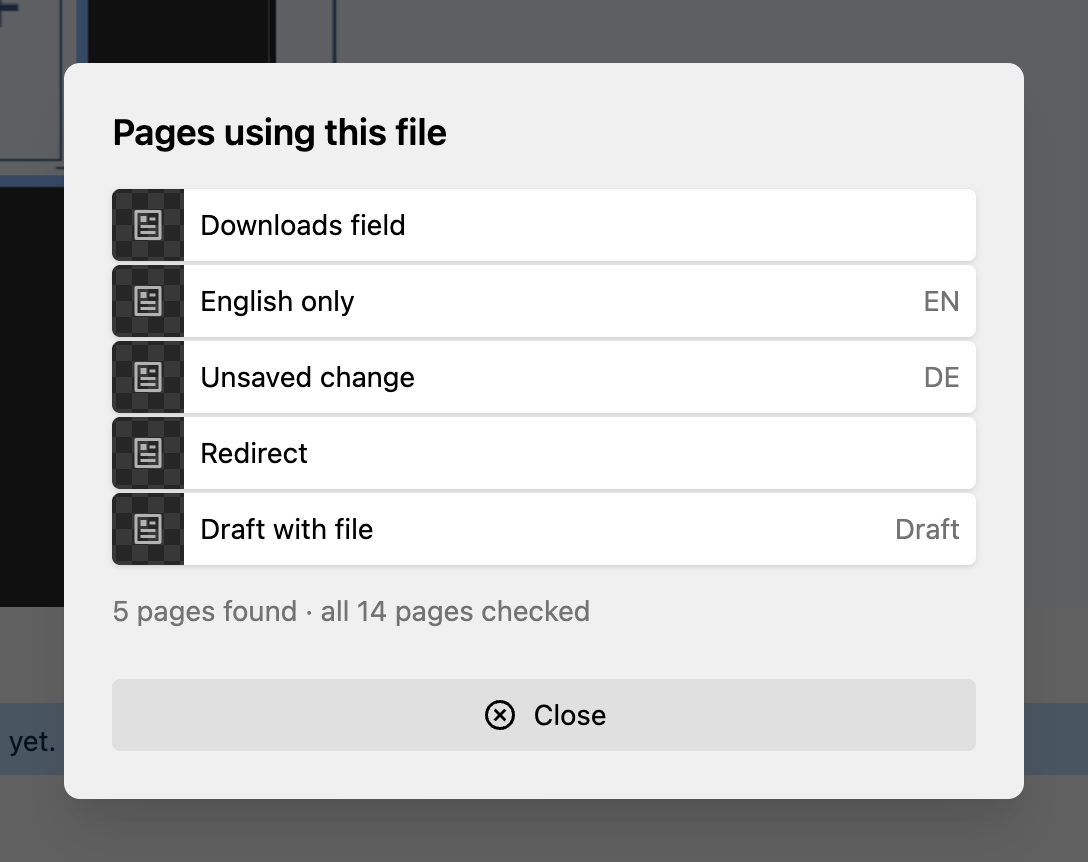
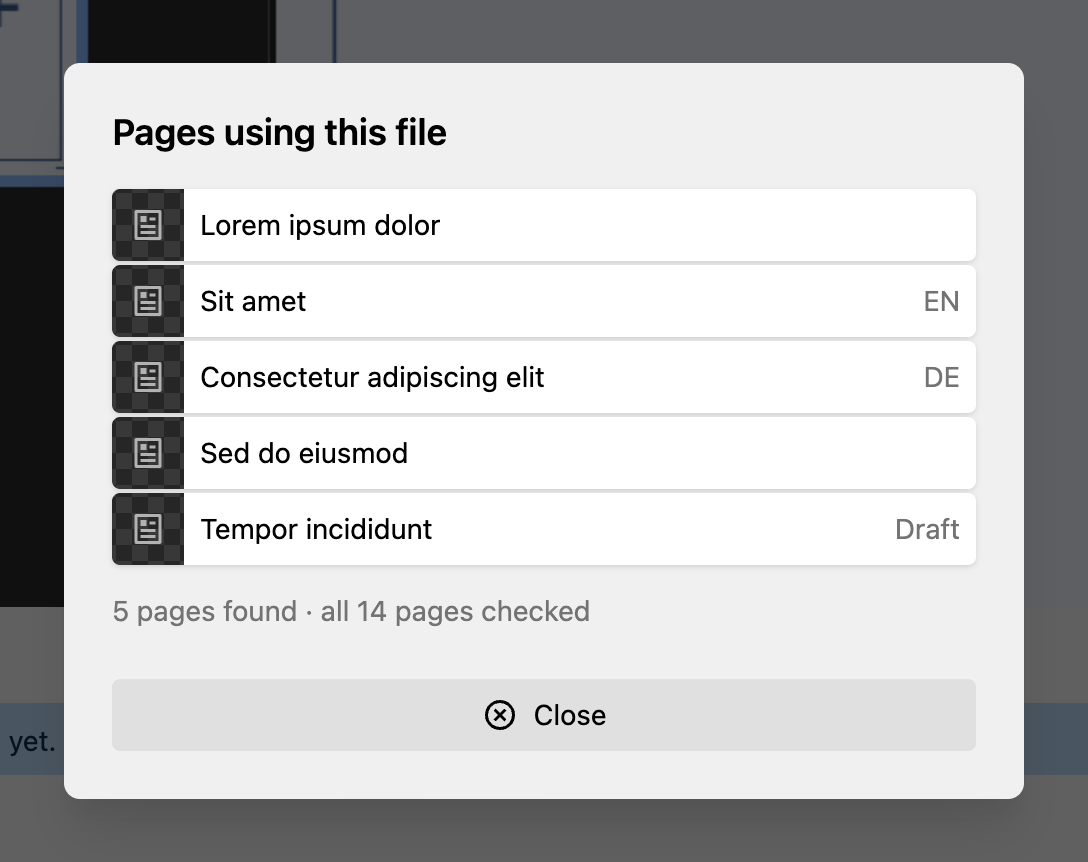
Simplify README and use placeholder titles in screenshot

diff --git a/README.md b/README.md
@@ -1,5 +1,5 @@
 # Kirby File Usage
 
-Shows every page that uses a file, including files that only a template outputs, from a new entry in the file's settings dropdown.
+See which pages use a file.
 
 ![The "Pages using this file" dialog](screenshot.png)
